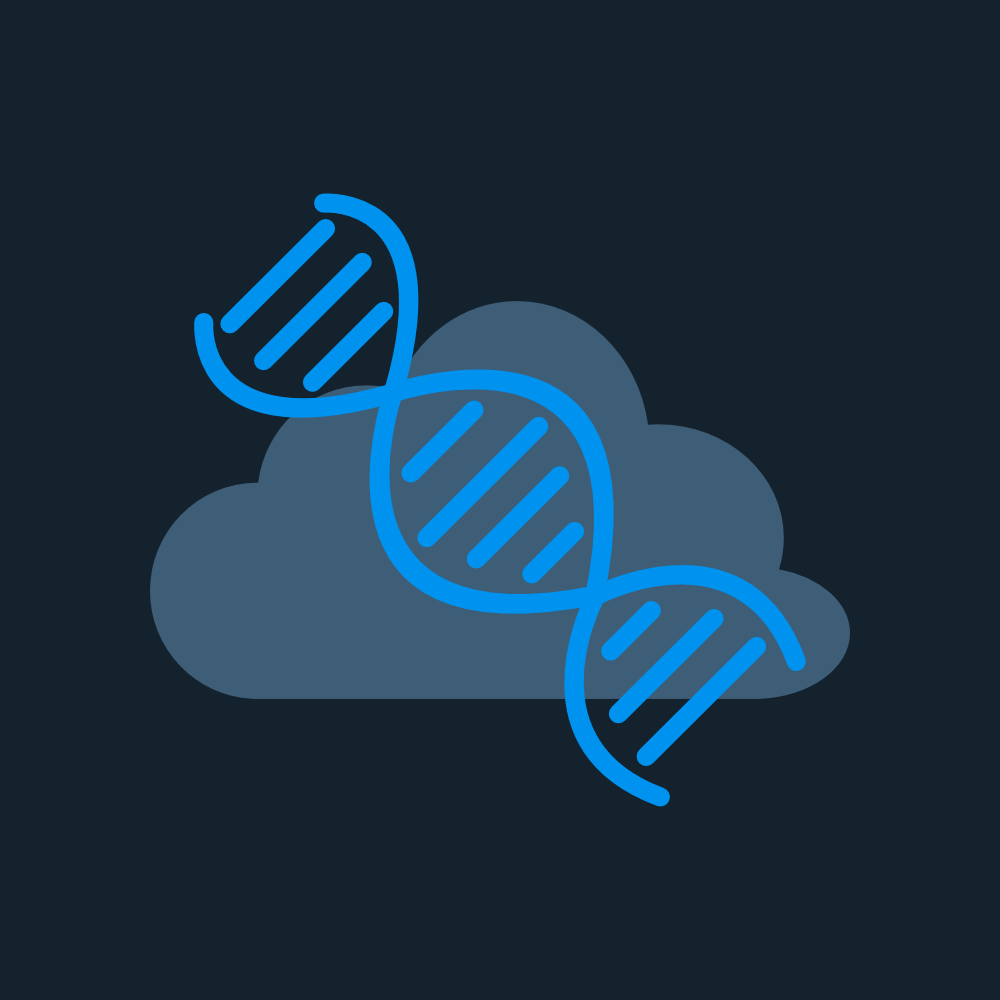
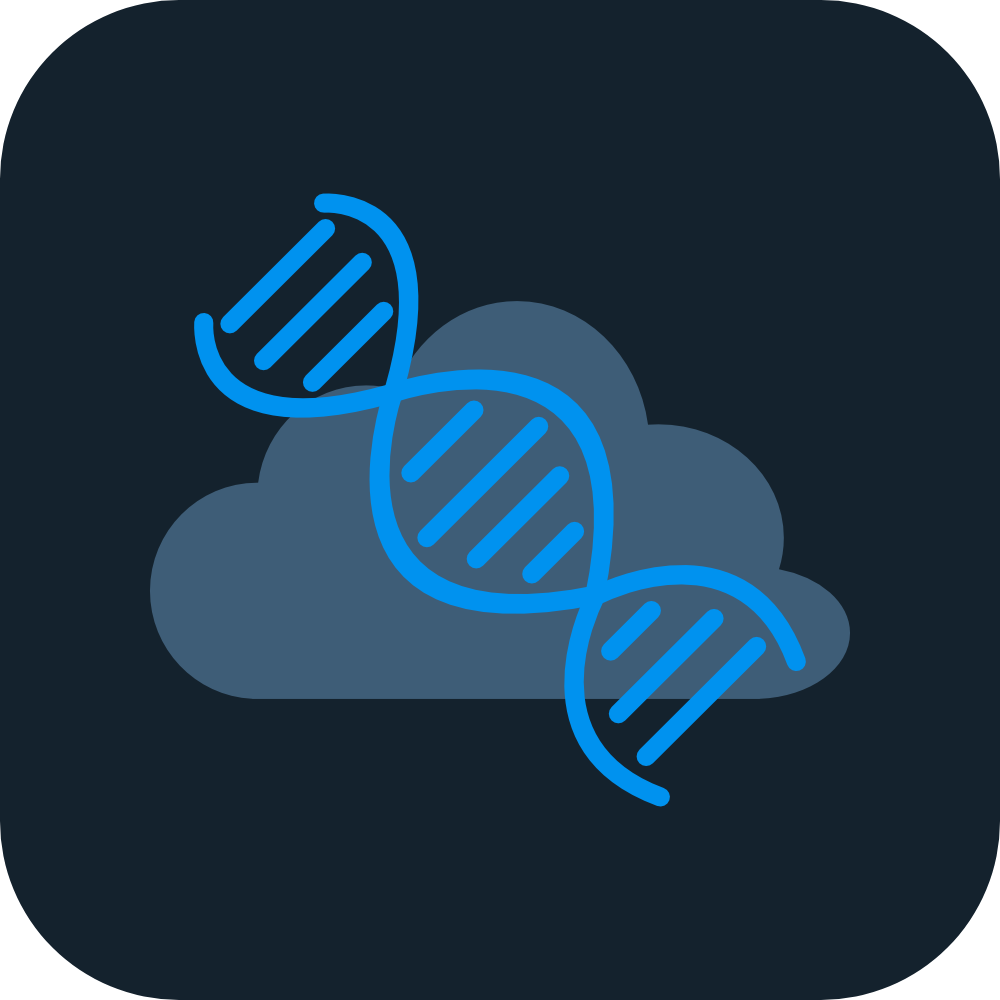
verify_mutations agora armazena mutações missense conservativas e não conservativas (+ uma alteração no icone)

diff --git a/dicts/conservativity.py b/dicts/conservativity.py
@@ -1,0 +1,78 @@
+conservativity = {
+    "Ala": {
+        "conservative": ["Gly", "Val", "Leu", "Ile"],
+        "non_conservative": ["Lys","Asp","Glu","Arg","Asn","Gln","Ser","Thr","Phe","Tyr","His","Cys","Pro","Trp"]
+    },
+    "Arg": {
+        "conservative": ["Lys","His"],
+        "non_conservative": ["Asp","Glu","Val","Leu","Ile","Met","Phe","Tyr","Ser","Thr","Cys","Gly","Pro","Trp","Asn","Gln","Ala"]
+    },
+    "Asn": {
+        "conservative": ["Gln","Ser"],
+        "non_conservative": ["Asp","Glu","Lys","Arg","His","Val","Leu","Ile","Met","Phe","Tyr","Cys","Gly","Pro","Thr","Trp","Ala"]
+    },
+    "Asp": {
+        "conservative": ["Glu"],
+        "non_conservative": ["Lys","Arg","His","Val","Leu","Ile","Met","Phe","Tyr","Ser","Thr","Cys","Gly","Pro","Trp","Asn","Gln","Ala"]
+    },
+    "Cys": {
+        "conservative": ["Ser"],
+        "non_conservative": ["Lys","Arg","His","Asp","Glu","Val","Leu","Ile","Met","Phe","Tyr","Asn","Gln","Gly","Pro","Thr","Trp","Ala"]
+    },
+    "Gln": {
+        "conservative": ["Asn","Glu"],
+        "non_conservative": ["Lys","Arg","His","Asp","Val","Leu","Ile","Met","Phe","Tyr","Ser","Thr","Cys","Gly","Pro","Trp","Ala"]
+    },
+    "Glu": {
+        "conservative": ["Asp","Gln"],
+        "non_conservative": ["Lys","Arg","His","Val","Leu","Ile","Met","Phe","Tyr","Ser","Thr","Cys","Gly","Pro","Trp","Asn","Ala"]
+    },
+    "Gly": {
+        "conservative": ["Ala"],
+        "non_conservative": ["Lys","Arg","His","Asp","Glu","Val","Leu","Ile","Met","Phe","Tyr","Ser","Thr","Cys","Pro","Trp","Asn","Gln"]
+    },
+    "His": {
+        "conservative": ["Lys","Arg"],
+        "non_conservative": ["Asp","Glu","Val","Leu","Ile","Met","Phe","Tyr","Ser","Thr","Cys","Gly","Pro","Trp","Asn","Gln","Ala"]
+    },
+    "Ile": {
+        "conservative": ["Leu","Val","Met"],
+        "non_conservative": ["Lys","Arg","His","Asp","Glu","Phe","Tyr","Ser","Thr","Cys","Gly","Pro","Trp","Asn","Gln","Ala"]
+    },
+    "Leu": {
+        "conservative": ["Ile","Val","Met"],
+        "non_conservative": ["Lys","Arg","His","Asp","Glu","Phe","Tyr","Ser","Thr","Cys","Gly","Pro","Trp","Asn","Gln","Ala"]
+    },
+    "Lys": {
+        "conservative": ["Arg","His"],
+        "non_conservative": ["Asp","Glu","Val","Leu","Ile","Met","Phe","Tyr","Ser","Thr","Cys","Gly","Pro","Trp","Asn","Gln","Ala"]
+    },
+    "Met": {
+        "conservative": ["Leu","Ile","Val"],
+        "non_conservative": ["Lys","Arg","His","Asp","Glu","Phe","Tyr","Ser","Thr","Cys","Gly","Pro","Trp","Asn","Gln","Ala"]
+    },
+    "Phe": {
+        "conservative": ["Tyr","Trp"],
+        "non_conservative": ["Lys","Arg","His","Asp","Glu","Val","Leu","Ile","Met","Ser","Thr","Cys","Gly","Pro","Asn","Gln","Ala"]
+    },
+    "Pro": {
+        "conservative": [],
+        "non_conservative": ["Ala","Arg","Asn","Asp","Cys","Gln","Glu","Gly","His","Ile","Leu","Lys","Met","Phe","Ser","Thr","Trp","Tyr","Val"]
+    },
+    "Ser": {
+        "conservative": ["Thr","Cys"],
+        "non_conservative": ["Lys","Arg","His","Asp","Glu","Val","Leu","Ile","Met","Phe","Tyr","Gly","Pro","Asn","Gln","Ala","Trp"]
+    },
+    "Thr": {
+        "conservative": ["Ser"],
+        "non_conservative": ["Lys","Arg","His","Asp","Glu","Val","Leu","Ile","Met","Phe","Tyr","Cys","Gly","Pro","Asn","Gln","Ala","Trp"]
+    },
+    "Trp": {
+        "conservative": ["Phe","Tyr"],
+        "non_conservative": ["Lys","Arg","His","Asp","Glu","Val","Leu","Ile","Met","Ser","Thr","Cys","Gly","Pro","Asn","Gln","Ala"]
+    },
+    "Tyr": {
+        "conservative": ["Phe","Trp"],
+        "non_conservative": ["Lys","Arg","His","Asp","Glu","Val","Leu","Ile","Met","Ser","Thr","Cys","Gly","Pro","Asn","Gln","Ala"]
+    }
+}

diff --git a/functions/verify_mutations.py b/functions/verify_mutations.py
@@ -1,21 +1,31 @@
 from dicts.domains import domains
-
+from dicts.conservativity import conservativity
 def verify_mutations(mutations):
-    # aqui a função vai retornar um dict contendo o dominio e a quantidade de mutações missense e nonsense nele
     counts = {
-        domain: {"missense": 0, "nonsense": 0}
+        domain: {
+            "missense": 0,
+            "nonsense": 0,
+            "missense_conservative": 0,
+            "missense_non_conservative": 0
+        }
         for domain in domains.keys()
     }
 
-    for pos, mut_type in mutations:
+    for pos, mut_type, original_aa, mutated_aa in mutations:
         domain = get_domain(pos)
         if domain is not None:
             counts[domain][mut_type] += 1
 
+            if mut_type == "missense": # se for missense verifica se é conservativa
+                if mutated_aa in conservativity[original_aa]["conservative"]:
+                    counts[domain]["missense_conservative"] += 1
+                else:
+                    counts[domain]["missense_non_conservative"] += 1
+
     return counts
 
-def get_domain(pos): # decidi por colocar a função aqui pois só é usada para realizar o verify_mutations, e não quero poluir a pasta functions mais do que já está
-        for name, coords in domains.items():
-            if coords["start"] <= pos + 1 <= coords["end"]:
-                return name
-        return None
+def get_domain(pos):
+    for name, coords in domains.items():
+        if coords["start"] <= pos + 1 <= coords["end"]:
+            return name
+    return None
